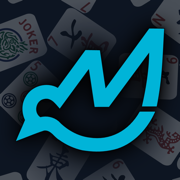
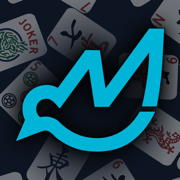
brightened up the tiles to 40% on the edges

diff --git a/index.html b/index.html
@@ -111,8 +111,8 @@
     <link rel="icon" type="image/svg+xml" href="/favicon.svg?v=15" />
     <link rel="icon" type="image/png" sizes="32x32" href="/favicon-32.png?v=15" />
     <link rel="icon" type="image/png" sizes="16x16" href="/favicon-16.png?v=15" />
-    <link rel="manifest" href="/manifest.webmanifest?v=101" />
-    <link rel="apple-touch-icon" href="/apple-touch-icon.png?v=101" />
+    <link rel="manifest" href="/manifest.webmanifest?v=103" />
+    <link rel="apple-touch-icon" href="/apple-touch-icon.png?v=103" />
     <meta name="theme-color" content="#0d1522" />
     <meta name="mobile-web-app-capable" content="yes" />
     <meta name="apple-mobile-web-app-capable" content="yes" />
